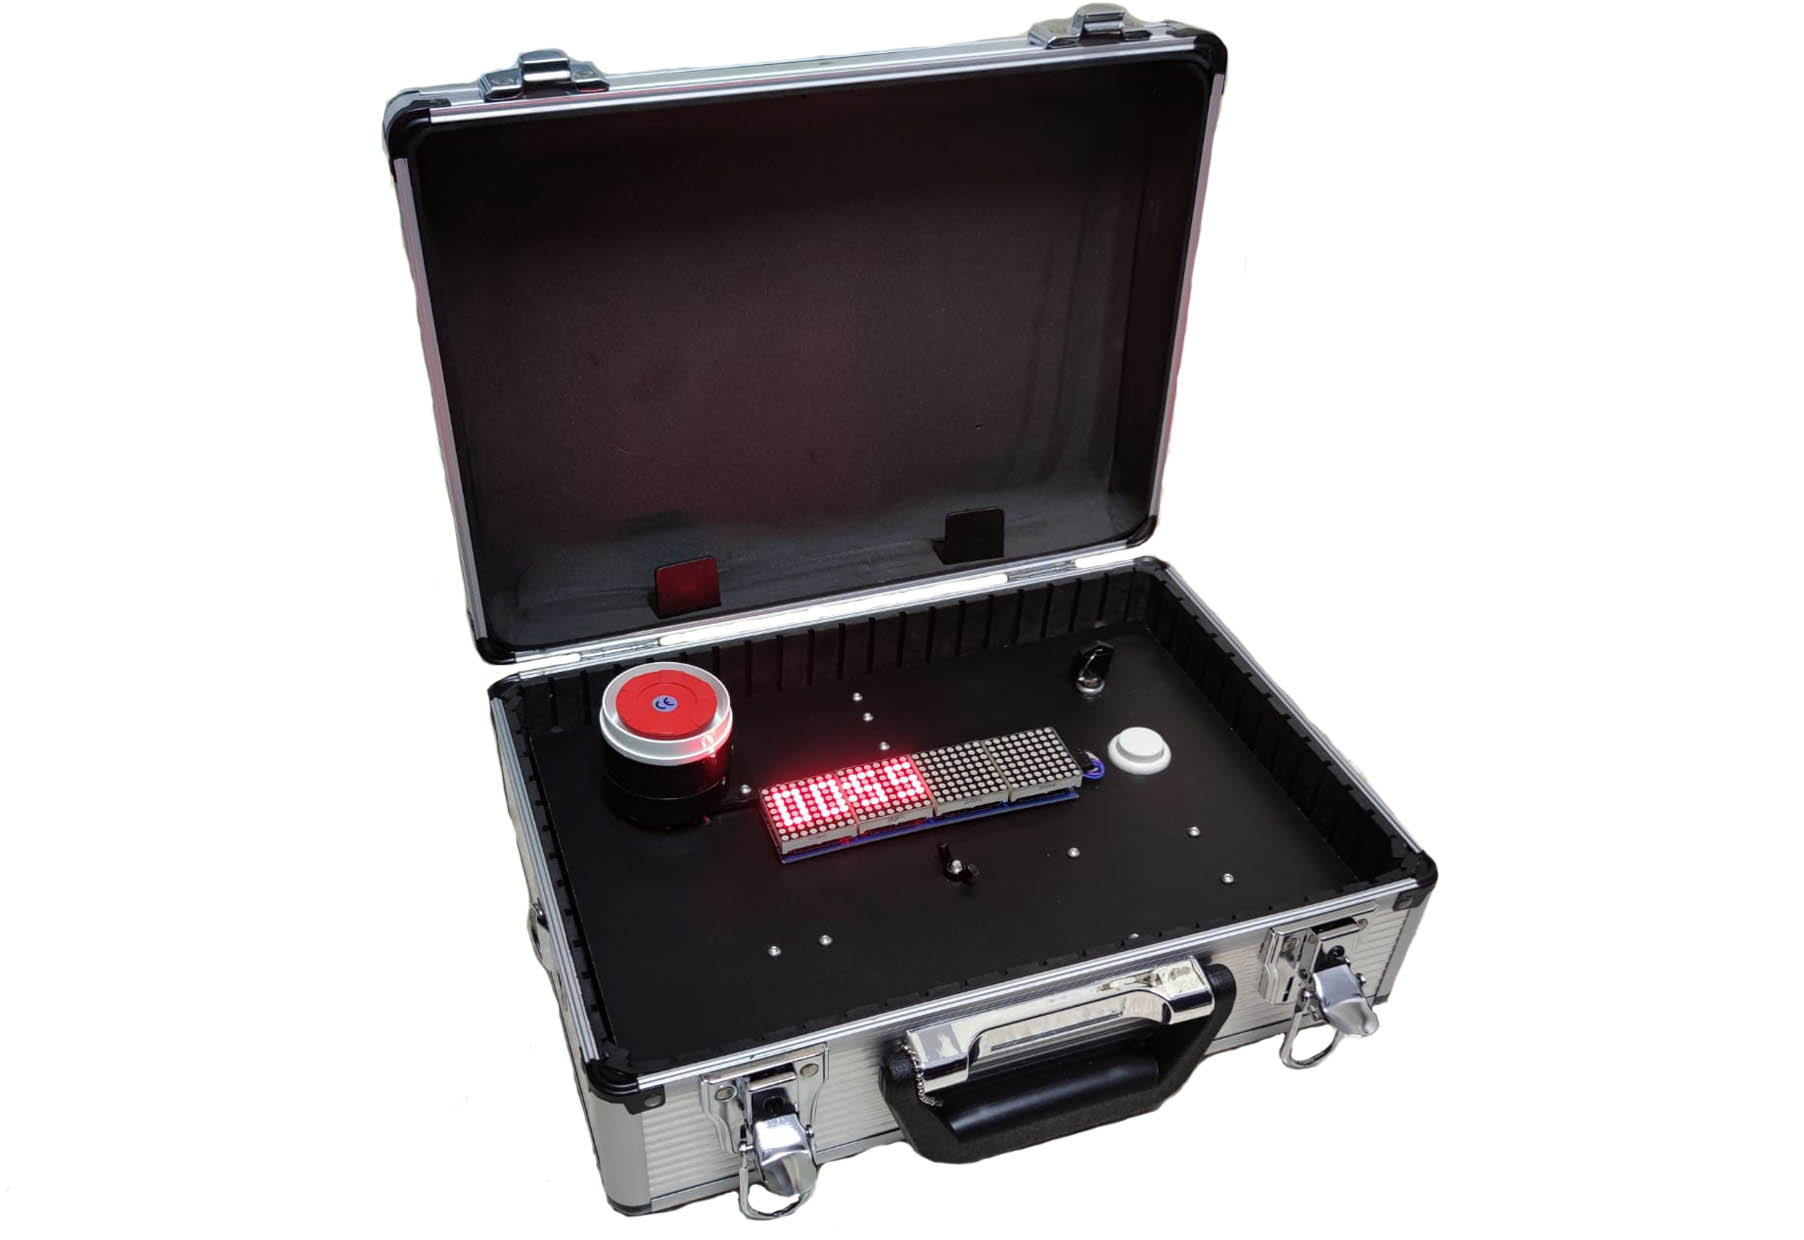
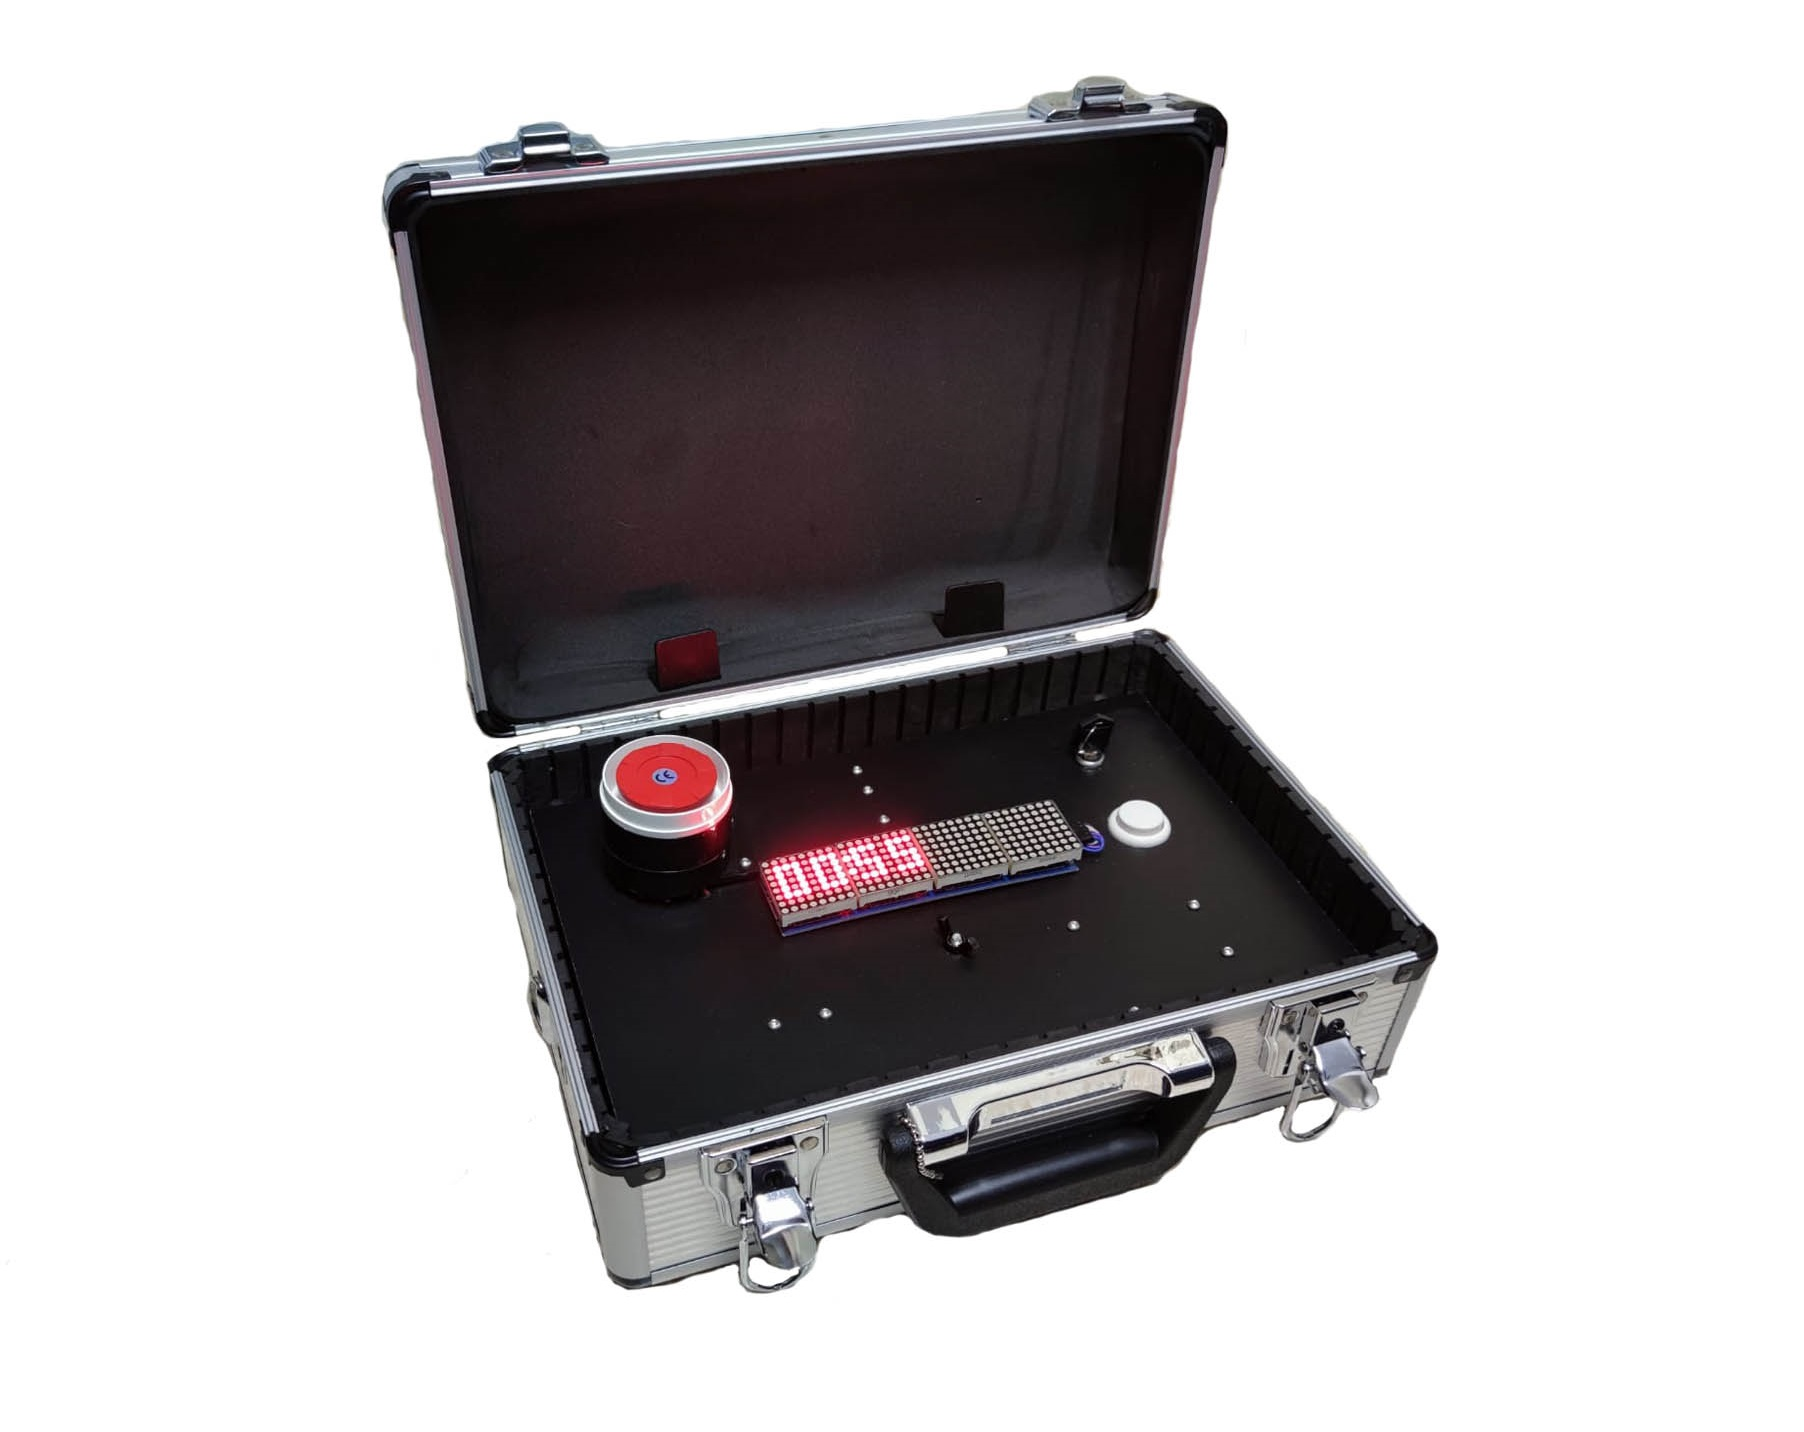
.

Changed region(s): [[0.2483, 0.3984, 0.8071, 1.0], [0.1863, 0.0, 0.6829, 0.3065]]

diff --git a/index.html b/index.html
@@ -382,8 +382,9 @@
   <div class="row">
     <div class="col-sm-4">
       <h2>BOMBA 1S</h2>
-      <h4>Maletín bomba ROBUSTO, SIMPLE, PRÁCTICO y ECONÓMICO. Pensado para todos aquellos que necesiten un maletín bomba que aguante todo tipo de golpes, que no requiera de grandes explicaciones en el briefing y quiera invertir realmente solo por lo que realmente necesita.</h4>
+      <h4>ROBUSTO, SIMPLE, PRÁCTICO y ECONÓMICO. Pensado para todos aquellos que necesiten un dispositivo bomba (simulada) que aguante todo tipo de golpes, que no requiera de grandes explicaciones en el briefing y quiera invertir realmente solo por lo que realmente necesita.</h4>
       <ul class=text-left>
+        <li>2 opciones de encapsulado: MALETÍN o CAJA DE MUNICIÓN</li>
         <li>Pantalla grande de 265 leds de alta luminosidad.</li>
         <li>Pulsador de larga duración (microswitch)</li>
         <li>Funcionamiento simple mediante "mini-juegos". Pensados para que el jugador descubrar como armar o desarmar la bomba sin ninguna explicación.</li>
@@ -398,8 +399,23 @@
     <h6>DESCARGAS:</h6>
       <a href="files\1S\MANUAL DE CONFIGURACIÓN - BOMBA 1S.pdf" download="BOMBA 1S - MANUAL">BOMBA 1S - MANUAL DE CONFIGURACION</a>
   </div>
-  <div class="col-sm-8">
-    <img src="img\bomba1s\BS1_1.jpg" width="100%" height="100%">
+  <div class="row">
+    <div class="col-sm-6">
+      <img src="img\bomba1s\BS1_1.jpg" width="100%">
+      <figcaption style="text-align: center;">BOMBA 1S con encapsulda MALETÍN</figcaption>
+    </div>
+    <div class="col-sm-6">
+      <img src="img\bomba1s\BS1_2.jpg" width="70%">
+    </div>
+  </div>
+  <div class="row">
+    <div class="col-sm-6">
+      <img src="img\bomba1s\S1_CM_2.jpg" width="100%">
+      <figcaption style="text-align: center;">BOMBA 1S con encapsulda CAJA DE MUNICIÓN</figcaption>
+    </div>
+    <div class="col-sm-6">
+      <img src="img\bomba1s\S1_CM_1.jpg" width="70%">
+    </div>
   </div>
 </div>
 
